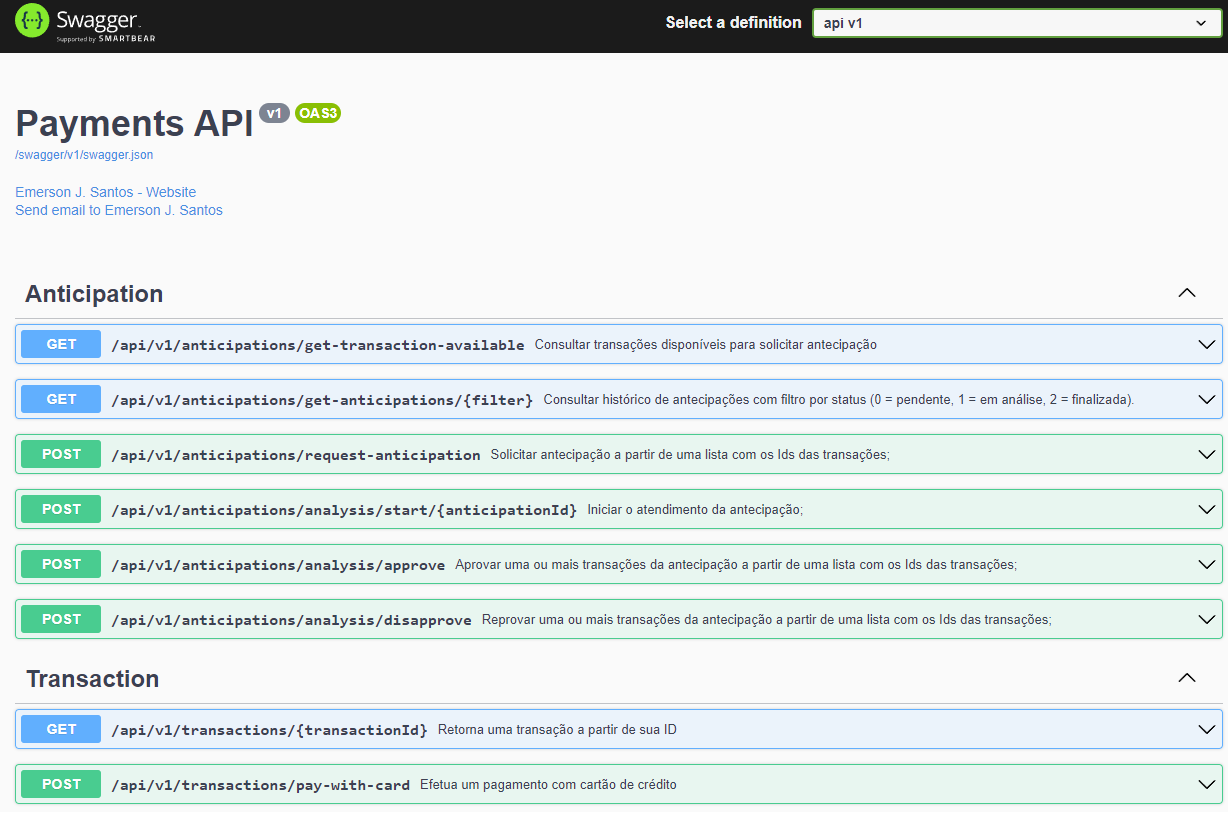
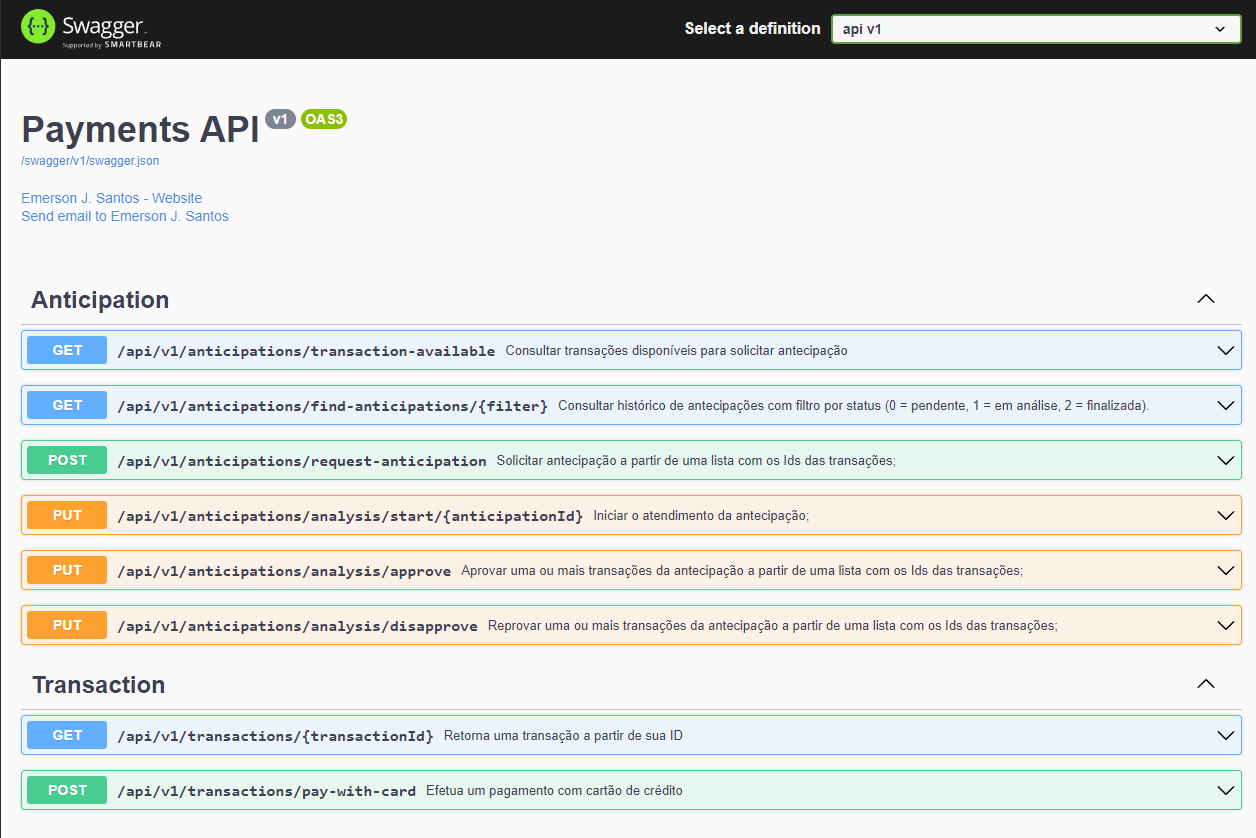
names router

Changed region(s): [[0.0, 0.3378, 1.0, 0.9828], [0.0, 0.0, 1.0, 0.0921], [0.0, 0.1229, 0.2785, 0.2764]]

diff --git a/src/api/Controllers/AnticipationController.cs b/src/api/Controllers/AnticipationController.cs
@@ -34,7 +34,7 @@ namespace api.Controllers
         /// <summary>
         ///     Consultar transações disponíveis para solicitar antecipação
         /// </summary>
-        [HttpGet("get-transaction-available")]
+        [HttpGet("transaction-available")]
         public async Task<ActionResult<dynamic>> GetTransactionAvailable()
         {
             List<Transaction> Transaction = await _anticipationService.GetTransactionAvailable();
@@ -45,7 +45,7 @@ namespace api.Controllers
         ///     Consultar histórico de antecipações com filtro por status (0 = pendente, 1 = em análise, 2 = finalizada).
         /// </summary>
         // GET: api/v1/get-anticipations/{0 || 1 || 2}
-        [HttpGet("get-anticipations/{filter:int}")]
+        [HttpGet("find-anticipations/{filter:int}")]
         public async Task<ActionResult<dynamic>> GetAnticipations([Range(0,2, ErrorMessage = "Value for {0} must be between {1} and {2}.")] int filter)
         {
             List<Anticipation> Anticipations = await _anticipationService.GetAnticipations(filter); 
@@ -87,7 +87,7 @@ namespace api.Controllers
         /// <summary>
         ///     Iniciar o atendimento da antecipação;
         /// </summary>
-        [HttpPost("analysis/start/{anticipationId:long}")]
+        [HttpPut("analysis/start/{anticipationId:long}")]
         public async Task<ActionResult> StartAnticipation(long anticipationId)
         {
             try
@@ -120,7 +120,7 @@ namespace api.Controllers
         ///       1,2,3
         ///     ]
         /// </remarks>
-        [HttpPost("analysis/approve/")]
+        [HttpPut("analysis/approve/")]
         public async Task<ActionResult> ApproveAnticipation(List<long> transactionIds)
         {
             try
@@ -152,7 +152,7 @@ namespace api.Controllers
         ///       1,2,3
         ///     ]
         /// </remarks>
-        [HttpPost("analysis/disapprove/")]
+        [HttpPut("analysis/disapprove/")]
         public async Task<ActionResult> DisapproveAnticipation(List<long> transactionIds)
         {          
             try

diff --git a/src/api/Controllers/TransactionController.cs b/src/api/Controllers/TransactionController.cs
@@ -33,7 +33,7 @@ namespace api.Controllers
         /// <summary>
         ///     Retorna uma transação a partir de sua ID
         /// </summary>
-        [HttpGet("get/{transactionId:long}")]
+        [HttpGet("{transactionId:long}")]
         public async Task<ActionResult<Transaction>> Get([FromRoute]long transactionId)
         {
             Transaction Transaction = await _transactionService.GetTransaction(transactionId);
@@ -58,7 +58,7 @@ namespace api.Controllers
         ///
         /// </remarks>
         [HttpPost("pay-with-card")]
-        public async Task<ActionResult<dynamic>> PayWithCard(PaymentModel model)
+        public async Task<ActionResult> PayWithCard([FromBody]PaymentModel model)
         {
             var payment = model.Map();
             
